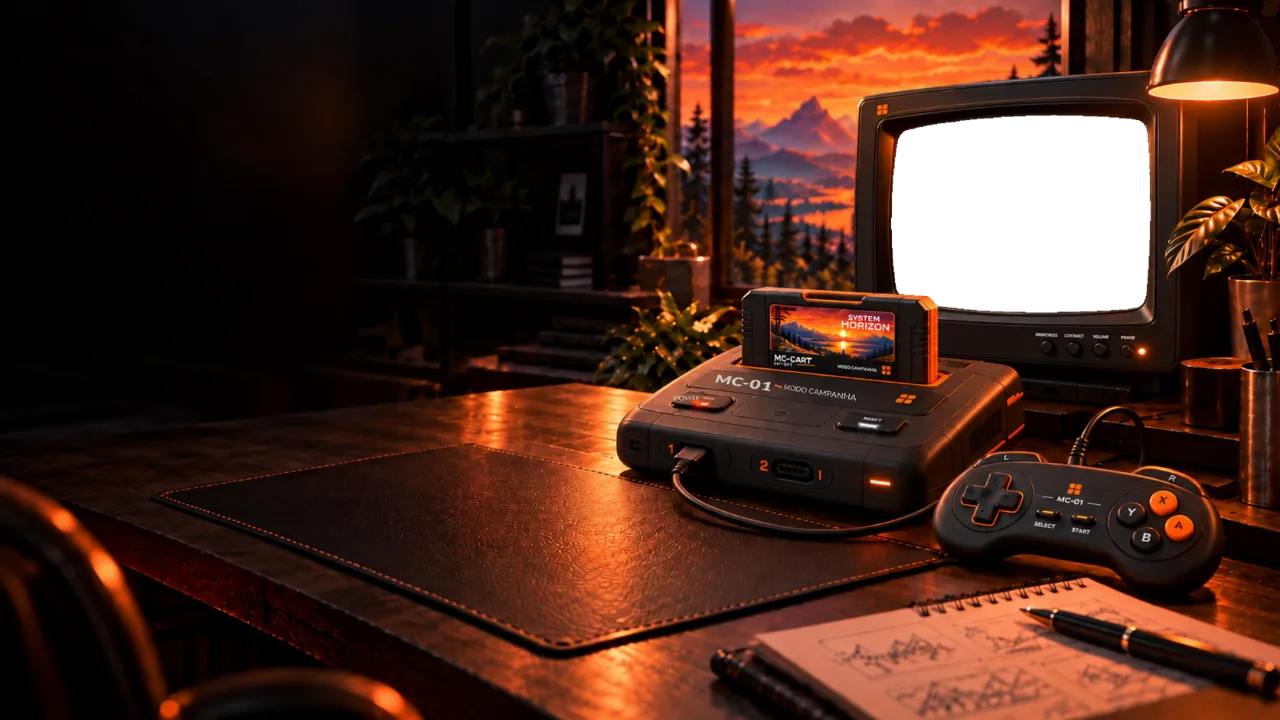
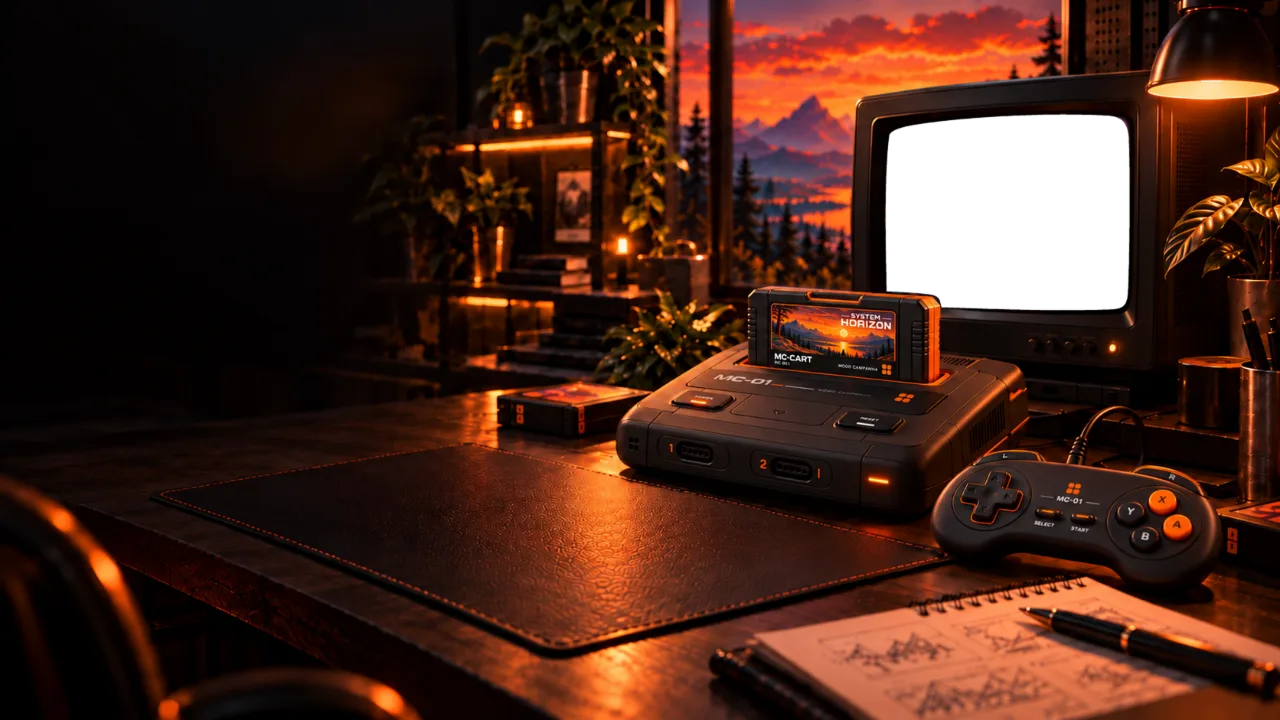
feat(hero): harmonize the Hero art with the collection MC-001 shell (D-089)
New master from Eduardo (approved as is): tube remeasured, HERO_CRT_GLASS,
--sx/--sw and .crt top/height updated, WebP derivatives regenerated. The
D-086 master is kept as hero-background-v2.png.

diff --git a/src/app/features/hero/hero-scene.assets.ts b/src/app/features/hero/hero-scene.assets.ts
@@ -16,9 +16,10 @@ const image = (name: string, widths: number[], width: number, height: number): H
 });
 
 /**
- * Fundo da Hero (D-067; arte final D-086): o setup MC-01 ao pôr do sol com as peças oficiais
- * (CRT, MC-01, MC-001, controle), usado direto. Mestre 2× em `design/source/hero/hero-background.png`
- * (3344 × 1882, tubo do CRT transparente); derivados gerados por `build-background.mjs`.
+ * Fundo da Hero (D-067; arte final D-086, revista em D-089): o setup MC-01 ao pôr do sol com as
+ * peças oficiais (CRT, MC-01, MC-001, controle), usado direto. Mestre 2× em
+ * `design/source/hero/hero-background.png` (3344 × 1882, tubo do CRT transparente); derivados
+ * gerados por `build-background.mjs`.
  * Coordenadas nos comentários e no SCSS estão na fonte 1× (1672 × 941).
  * `mobile` é um recorte quadrado da mesma imagem (console, CRT e controle; x 628–1569), para o
  * celular não baixar a imagem inteira só para mostrar o centro dela.
@@ -29,15 +30,16 @@ export const HERO_BACKGROUND = {
 };
 
 /**
- * Cantos da tela do SYSTEM HORIZON, em frações da caixa x 1159,5–1507,5, y 150,5–408,5 da fonte
+ * Cantos da tela do SYSTEM HORIZON, em frações da caixa x 1152,5–1480, y 149,5–405 da fonte
  * (posicionada em `hero-scene.scss`). O tubo do CRT é transparente na imagem (D-080) e a tela fica
  * ATRÁS dela. A folga é só lateral (~4,5 px além do vidro), porque a tela 4:3 escala pela altura:
  * folga vertical ampliaria o teaser e levaria o HUD para baixo do aro. Em cima e embaixo, onde o
- * tubo é abaulado, sobram até ~3 px de vidro escuro. A TV está levemente girada (lado direito mais alto).
+ * tubo é abaulado, sobram até ~3,6 px da fonte (≤ 3 px CSS) de vidro escuro. A TV está levemente
+ * girada (lado direito mais alto).
  */
 export const HERO_CRT_GLASS: ScreenQuad = [
-  [0.01, 0.038],
+  [0.004, 0.042],
   [1, 0],
-  [0.993, 1],
-  [0, 0.976],
+  [0.998, 1],
+  [0, 0.971],
 ];

diff --git a/src/app/features/hero/hero-scene.scss b/src/app/features/hero/hero-scene.scss
@@ -14,10 +14,10 @@
   // Imagem mostrada: recorte quadrado no mobile (HERO_BACKGROUND.mobile, x 628–1569 da fonte).
   --ar: 1;
   --pos: 50%;
-  // Caixa da tela na imagem mostrada (fonte 1672 × 941: x 1159,5–1507,5, y 150,5–408,5; folga só lateral);
+  // Caixa da tela na imagem mostrada (fonte 1672 × 941: x 1152,5–1480, y 149,5–405; folga só lateral);
   // os cantos dentro dela (perspectiva da TV) estão em HERO_CRT_GLASS.
-  --sx: 56.48%;
-  --sw: 36.98%;
+  --sx: 55.74%;
+  --sw: 34.8%;
   // Máscara (local): opaca entre --x1/--x2 e --y1/--y2, dissolvendo até --x0 e as bordas.
   --x0: 0%;
   --x1: 12%;
@@ -30,8 +30,8 @@
     aspect-ratio: 3 / 2;
     --ar: 1672 / 941;
     --pos: 80%;
-    --sx: 69.35%;
-    --sw: 20.81%;
+    --sx: 68.93%;
+    --sw: 19.59%;
   }
 
   // Desktop compacto: ao lado do texto (colunas 7–12), sangrando só à direita.
@@ -94,9 +94,9 @@ img {
 .crt {
   position: absolute;
   left: var(--sx);
-  top: 15.99%;
+  top: 15.89%;
   width: var(--sw);
-  height: 27.42%;
+  height: 27.15%;
 }
 
 // Pausar/reproduzir (WCAG 2.2.2): pequeno, no canto inferior do visual, sem competir com os CTAs.
